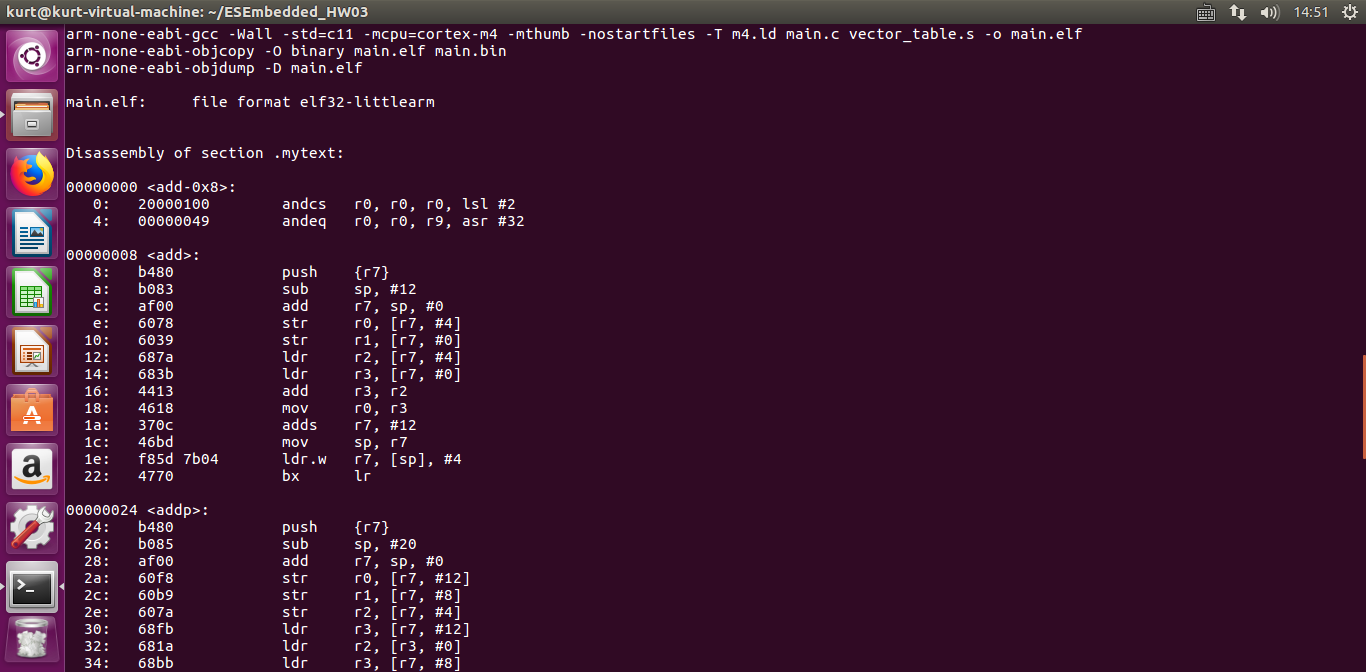
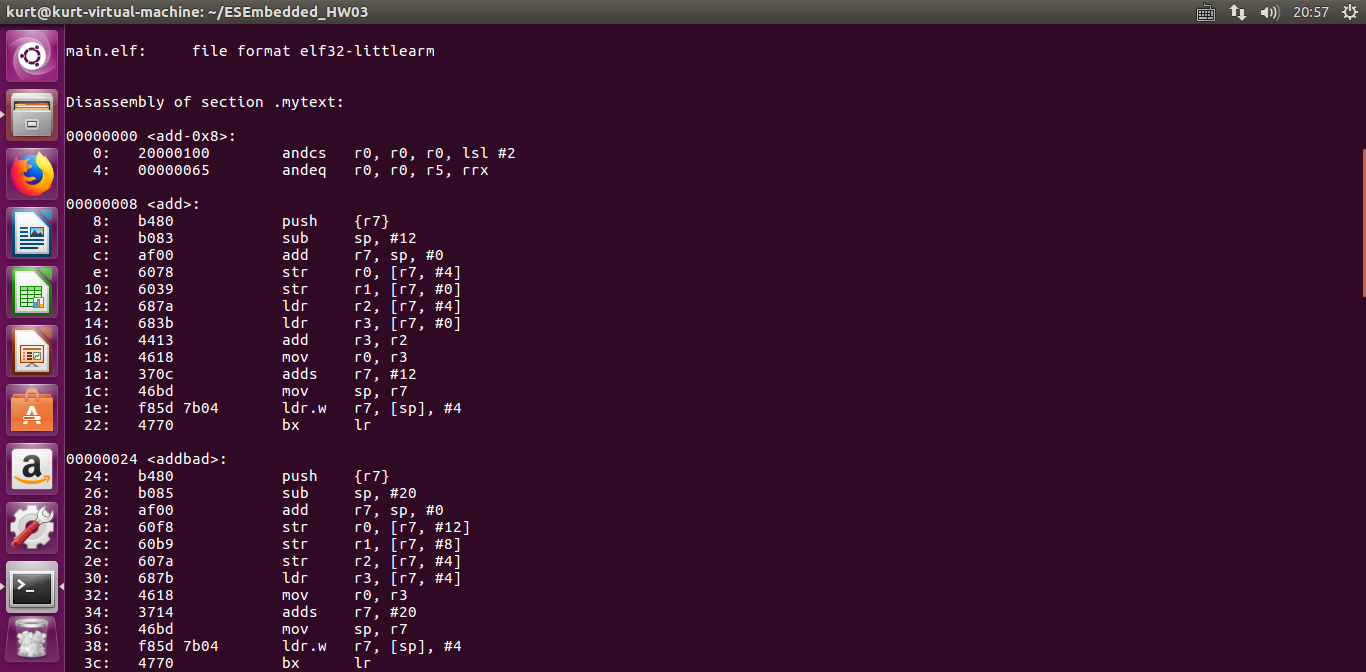
renew

diff --git a/main.c b/main.c
@@ -1,11 +1,14 @@
-int summand=9;
 int add(int a, int b){return a+b;}
+int addbad(int a, int b, int c){return c;}
 void addp(int *a, int *b, int *c){*c=*a+*b;}
 void reset_handler(void)
 {
+	int summand=9;
 	int addend=10;
 	int sum=0;
 	sum=add(summand, addend);
+	sum=0;
+	sum=addbad(summand, addend, sum);
 	sum=0;
 	addp(&summand, &addend, &sum);
 	while (1);
